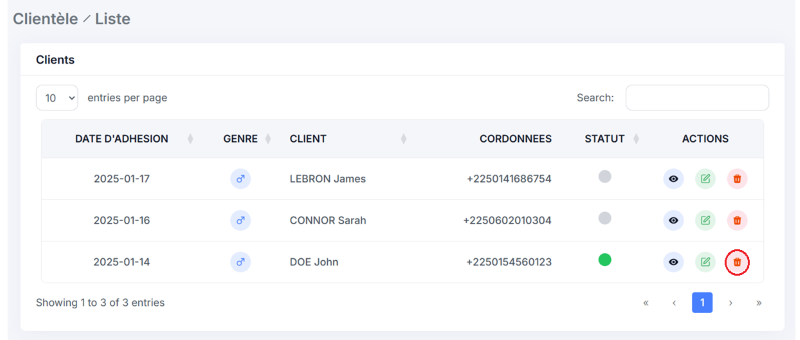
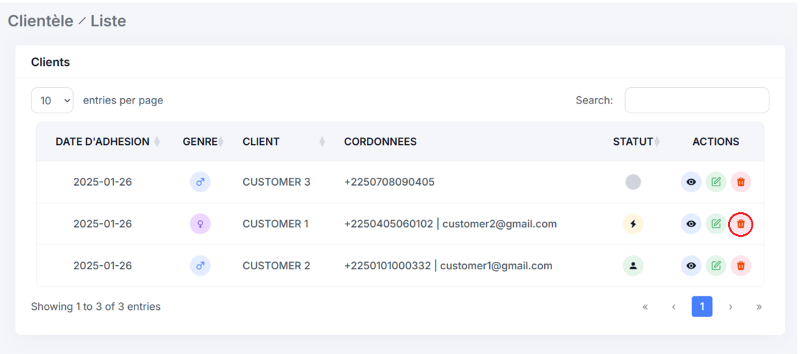
doc: improvement

diff --git a/docs/customer.md b/docs/customer.md
@@ -20,7 +20,10 @@ Les clients sont **ajoutés automatiquement** lorsqu'ils **souscrivent à un abo
 2. Cliquez sur le bouton correspondant au client : 
 ![customer view btn](/images/screenshots/customer/view_btn.png "customer view btn")  
 
-> **Note** : les clients disposant d'un abonnement actif sont ceux avec une **puce verte** dans la colonne **STATUT**. 
+> **Notes** : 
+> - les clients disposant d'un abonnement actif sont ceux avec une **puce verte** dans la colonne **statut**. 
+> - les clients disposant d'une séance active sont ceux avec une **puce jaune** dans la colonne **statut**. 
+> - les clients ne disposant d'aucune prestation active sont ceux avec une **puce grise** dans la colonne **statut**. 
 
 
 Vous accéderez aux détails du client, où vous trouverez l’historique complet de ses prestations et transactions. Vous y trouverez également des actions facilitant le **suivi, l’ajout, la modification et la suppression des prestations**.  
@@ -49,7 +52,7 @@ Vous accéderez aux détails du client, où vous trouverez l’historique comple
 
 ![delete form](/images/screenshots/customer/delete_form.png "delete form")  
 
-> **Note** : Lorsqu'un client est supprimé, ses prestations (Abonnements, séances et achats) ne sont pas supprimées automatiquement pour des raisons de **tracabilité**. Vous pouvez toujours restaurer plus tard depuis la [corbeille](trash.md#restaurer-un-client)
+> **Note** : Lorsqu'un client est supprimé, ses prestations (Abonnements, séances et achats) ne sont pas supprimées automatiquement pour des raisons de **tracabilité**. Vous pouvez toujours restaurer plus tard depuis la [corbeille](trash.md#restaurer-un-client) (permission **suppression** requise).
 
  ---
 ## **Liens de navigation**

diff --git a/docs/package.md b/docs/package.md
@@ -43,7 +43,9 @@ Vous pouvez ajouter un ou plusieurs forfaits pour gérer les souscriptions de vo
 2. Confirmez la suppression du forfait une fois le formulaire ouvert :  
    ![delete form](/images/screenshots/package/delete_form.png "delete form")
 
-   > **Note:** La suppression d'un forfait n'entraîne pas **la suppression de toutes les entrées (Abonnements, Séances) liées**. Vous pouvez restaurer le forfait plus tard depuis la [corbeille](trash.md#restaurer-un-forfait).
+   > **Notes:**
+   > - La suppression d'un forfait n'entraîne pas **la suppression de toutes les entrées (Abonnements, Séances) liées**. Vous pouvez restaurer le forfait plus tard depuis la [corbeille](trash.md#restaurer-un-forfait) (permission **suppression** requise).
+   >- Si le forfait n'est lié à aucune entrée, il sera supprimé **définitevement**.
 
 ---
 

diff --git a/docs/product.md b/docs/product.md
@@ -75,7 +75,9 @@ Pour mettre à jour les quantités de plusieurs articles en même temps :
 2. Confirmez la suppression de l'article une fois le formulaire ouvert:  
    ![Formulaire de suppression](/images/screenshots/product/delete_form.png "delete product form")  
 
-   > **Note** : Lorsqu'un produit est supprimé, vous pouvez toujours le restaurer plus tard depuis la [corbeille](trash.md#restaurer-un-article).  
+   > **Note** : 
+   > - Si l'article a déja été vendu, Il sera déplacé vers la corbeille pour des raisons de **tracabilité**. Vous pouvez toujours le [restaurer](trash.md#restaurer-un-article) plus tard (permission **suppression** requise).
+   > - Si l'article n'a pas encore été vendu, il sera supprimé **définitivement**.
 
 ---
 

diff --git a/docs/event.md b/docs/event.md
@@ -36,7 +36,7 @@ Pour modifier ou supprimer un événement, localisez et sélectionnez-le sur le 
 
 ![edit form](/images/screenshots/calendar/edit_form.png "edit form")
 
-> **Note** : Une fois supprimé, Vous pouvez restaurer l'évènement depuis la [corbeille](trash.md#restaurer-un-évènement). 
+> **Note** : Une fois supprimé, Vous pouvez restaurer l'évènement depuis la [corbeille](trash.md#restaurer-un-évènement) (permission **suppression** requise). 
  
  ---
 ## **Liens de navigation**
